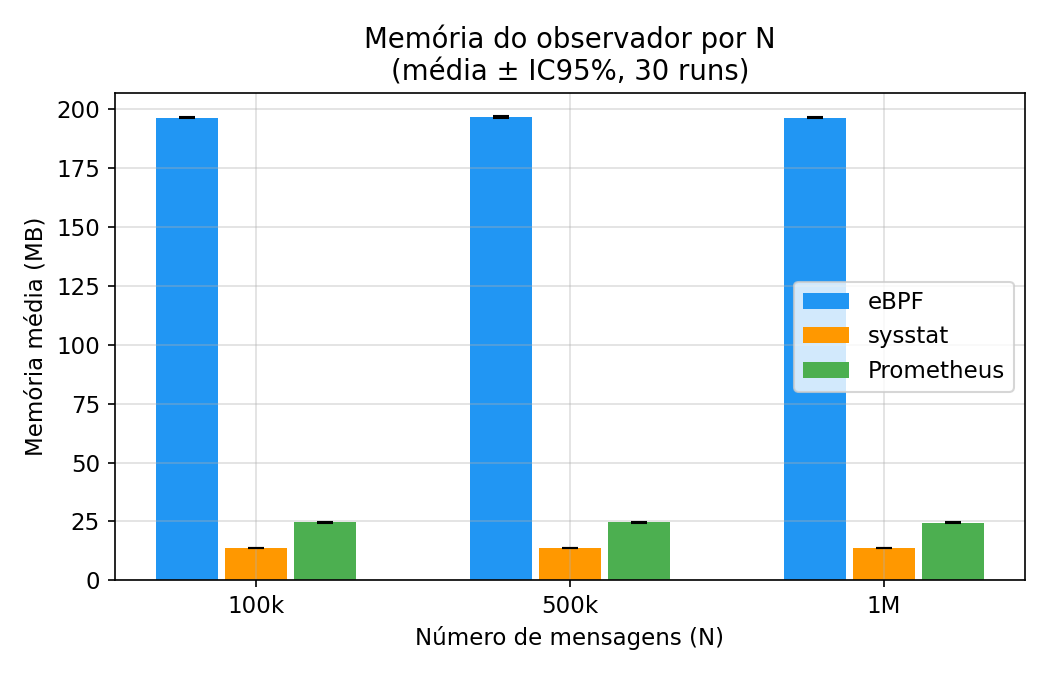
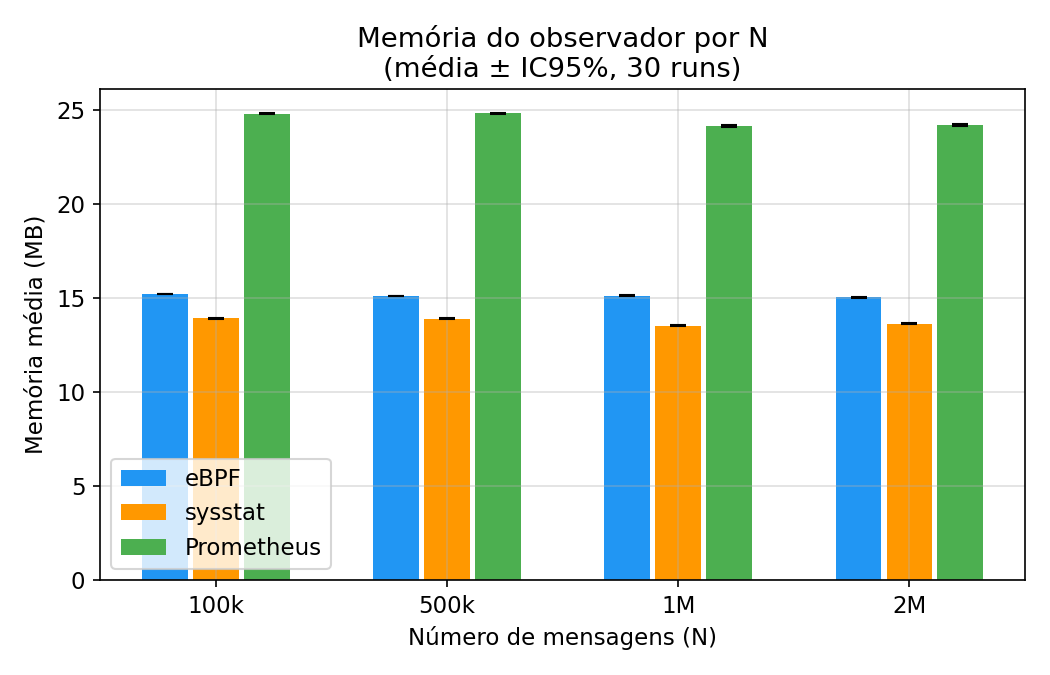
docs: atualizar documentação, gráficos e relatório com resultados N=1M e N=2M
- arquitetura_c4.svg: diagrama C4 corrigido (container único por variante, labels PT-BR)
- architecture.md: terminologia atualizada (observador_*.py, asyncio, WORKERS=200)
- plot_results.py: suporte a 4 valores de N (100k/500k/1M/2M), x dinâmico
- results/plots/: gráficos regenerados com todos os pontos de dados
- README.md: seção de resultados atualizada com N=2M e tendência eBPF
- relatorio_projeto.md: seção de recoleta N=1M e coleta N=2M (17/05/2026)

diff --git a/scripts/plot_results.py b/scripts/plot_results.py
@@ -31,8 +31,8 @@ os.makedirs(PLOTS_DIR, exist_ok=True)
 TOOLS       = ["ebpf", "sysstat", "prometheus"]
 TOOL_LABELS = {"ebpf": "eBPF", "sysstat": "sysstat", "prometheus": "Prometheus"}
 COLORS      = {"ebpf": "#2196F3", "sysstat": "#FF9800", "prometheus": "#4CAF50"}
-NS          = [100_000, 500_000, 1_000_000]
-NS_LABELS   = {100_000: "100k", 500_000: "500k", 1_000_000: "1M"}
+NS          = [100_000, 500_000, 1_000_000, 2_000_000]
+NS_LABELS   = {100_000: "100k", 500_000: "500k", 1_000_000: "1M", 2_000_000: "2M"}
 
 plt.rcParams.update({
     "font.family":  "DejaVu Sans",
@@ -73,7 +73,7 @@ def load_individual_runs(tool, n):
 def plot_latencia_por_n():
     fig, ax = plt.subplots(figsize=(7, 4.5))
 
-    x = np.array([1, 2, 3])
+    x = np.arange(1, len(NS) + 1)
     x_labels = [NS_LABELS[n] for n in NS]
     width = 0.22
     offsets = {"ebpf": -width, "sysstat": 0, "prometheus": width}
@@ -113,7 +113,7 @@ def plot_latencia_por_n():
 # ── Gráfico 2: Boxplot de latência por ferramenta × N ────────────────────────
 
 def plot_boxplot_latencia():
-    fig, axes = plt.subplots(1, 3, figsize=(12, 5), sharey=True)
+    fig, axes = plt.subplots(1, len(NS), figsize=(4 * len(NS), 5), sharey=True)
 
     for ax, n in zip(axes, NS):
         data_per_tool = []
@@ -152,7 +152,7 @@ def plot_boxplot_latencia():
 def plot_memoria_observador():
     fig, ax = plt.subplots(figsize=(7, 4.5))
 
-    x = np.array([1, 2, 3])
+    x = np.arange(1, len(NS) + 1)
     x_labels = [NS_LABELS[n] for n in NS]
     width = 0.22
     offsets = {"ebpf": -width, "sysstat": 0, "prometheus": width}
@@ -199,7 +199,7 @@ def plot_memoria_observador():
 def plot_cpu_waf():
     fig, ax = plt.subplots(figsize=(7, 4.5))
 
-    x = np.array([1, 2, 3])
+    x = np.arange(1, len(NS) + 1)
     x_labels = [NS_LABELS[n] for n in NS]
     width = 0.22
     offsets = {"ebpf": -width, "sysstat": 0, "prometheus": width}

diff --git a/README.md b/README.md
@@ -208,76 +208,83 @@ python3 src/compare.py               # cross-N com todos os valores disponíveis
 ## Resultados
 
 > Valores exibidos como **média ± IC95%** (intervalo de confiança de 95%, t de Student, α=0.05).
+> Config: WORKERS=200, libbpf+CO-RE, 30 runs por N. Coletados em 16–17/05/2026.
 
-### N = 100.000 mensagens — 30 runs (28/04/2026, libbpf)
+### N = 100.000 mensagens — 30 runs
 
-| Métrica | eBPF | sysstat | Prometheus |
-|---------|------|---------|------------|
-| Latência média (ms) | **1.1435 ± 0.0272** | 1.1876 ± 0.0414 | 1.2348 ± 0.0690 |
-| Desvio padrão (ms) | **0.6899 ± 0.0790** | 0.8323 ± 0.1306 | 0.8647 ± 0.1148 |
-| Latência máx (ms) | **4.1619 ± 0.4504** | 5.2487 ± 0.8089 | 5.0872 ± 0.6464 |
-| Latência mín (ms) | 0.3247 ± 0.0175 | 0.5265 ± 0.0226 | **0.4997 ± 0.0332** |
-| CPU média WAF (%) | **68.635 ± 3.7482** | 70.008 ± 0.1606 | 68.356 ± 3.2806 |
-| Memória média WAF (MB) | **12.181 ± 0.0219** | 12.155 ± 0.0200 | 12.220 ± 0.0206 |
-| CPU média observador (%) | 3.320 ± 6.6202 | 2.860 ± 4.2246 | **1.402 ± 1.8656** |
-| Memória média observador (MB) | 15.050 ± 0.0360 | **13.689 ± 0.0292** | 24.559 ± 0.0563 |
-
-**Observações:**
-- As três ferramentas apresentam latências próximas — IC95 com sobreposição parcial em N=100k.
-- **CPU do observador** com IC95 superior à média nas três ferramentas, refletindo alta variância em runs curtos (~43s).
-- **Memória do observador**: eBPF libbpf ~15 MB (sem BCC/LLVM), comparável ao sysstat ~14 MB. Prometheus ~25 MB.
-
-### N = 500.000 mensagens — 30 runs (27/04/2026, BCC — re-execução com libbpf pendente)
+> DURATION ≈ 26s, 26 amostras/run.
 
 | Métrica | eBPF | sysstat | Prometheus |
 |---------|------|---------|------------|
-| Latência média (ms) | **1.3380 ± 0.0309** | 1.4053 ± 0.0267 | 1.4381 ± 0.0265 |
-| Desvio padrão (ms) | **0.9469 ± 0.0861** | 1.0322 ± 0.0748 | 1.0469 ± 0.0772 |
-| Latência máx (ms) | 7.7065 ± 1.0172 | 7.8964 ± 0.8772 | **7.7276 ± 0.9048** |
-| Latência mín (ms) | **0.4412 ± 0.0264** | 0.5098 ± 0.0118 | 0.5102 ± 0.0106 |
-| CPU média WAF (%) | 72.134 ± 0.176 | 68.301 ± 0.222 | **67.452 ± 0.225** |
-| Memória média WAF (MB) | **12.197 ± 0.025** | 12.198 ± 0.022 | 12.210 ± 0.018 |
-| CPU média observador (%) | **0.709 ± 0.876** | 0.749 ± 0.942 | 0.978 ± 1.045 |
-| Memória média observador (MB) | 196.712 ± 0.318 | **13.639 ± 0.024** | 24.606 ± 0.054 |
+| Latência média (ms) | **0.5407 ± 0.0121** | 0.6012 ± 0.0048 | 0.6205 ± 0.0046 |
+| Desvio padrão (ms) | 0.0808 ± 0.0064 | **0.0797 ± 0.0048** | 0.0878 ± 0.0065 |
+| CPU média WAF (%) | **52.385 ± 7.283** | 57.230 ± 0.200 | 57.044 ± 0.158 |
+| Memória média WAF (MB) | 28.955 ± 0.083 | **28.106 ± 0.045** | 28.122 ± 0.046 |
+| CPU média observador (%) | **0.051 ± 0.010** | 4.663 ± 6.543 | 2.373 ± 4.720 |
+| Memória média observador (MB) | 15.226 ± 0.020 | **13.932 ± 0.015** | 24.822 ± 0.040 |
 
-Em N=500k o eBPF apresenta menor latência média com IC95 que não se sobrepõem aos demais — diferença estatisticamente significativa.
+### N = 500.000 mensagens — 30 runs
 
-### N = 1.000.000 mensagens — 30 runs (27/04/2026, BCC — re-execução com libbpf pendente)
+> DURATION ≈ 53s, 53 amostras/run.
 
 | Métrica | eBPF | sysstat | Prometheus |
 |---------|------|---------|------------|
-| Latência média (ms) | **1.1016 ± 0.0140** | 1.3141 ± 0.0548 | 1.2765 ± 0.0143 |
-| Desvio padrão (ms) | **0.7118 ± 0.0324** | 0.8379 ± 0.0693 | 0.7442 ± 0.0347 |
-| Latência máx (ms) | **6.0817 ± 0.2919** | 7.3840 ± 0.8908 | 6.5889 ± 0.5932 |
-| Latência mín (ms) | 0.3854 ± 0.0140 | **0.3333 ± 0.0299** | 0.5218 ± 0.0461 |
-| CPU média WAF (%) | **65.1473 ± 0.2609** | 65.894 ± 0.5843 | 70.1823 ± 0.5326 |
-| Memória média WAF (MB) | 12.2693 ± 0.0206 | **12.239 ± 0.0270** | 12.2963 ± 0.0230 |
-| CPU média observador (%) | 0.2943 ± 0.4334 | **0.1693 ± 0.1468** | 0.2753 ± 0.2461 |
-| Memória média observador (MB) | 196.5243 ± 0.2452 | **13.6733 ± 0.0364** | 24.5493 ± 0.0494 |
+| Latência média (ms) | **0.5038 ± 0.0055** | 0.5721 ± 0.0034 | 0.5844 ± 0.0042 |
+| Desvio padrão (ms) | 0.0669 ± 0.0258 | **0.0587 ± 0.0028** | 0.0598 ± 0.0028 |
+| CPU média WAF (%) | **107.02 ± 0.049** | 107.40 ± 0.052 | 107.42 ± 0.047 |
+| Memória média WAF (MB) | 37.527 ± 0.118 | 36.454 ± 0.094 | **36.426 ± 0.095** |
+| CPU média observador (%) | 3.515 ± 3.976 | **1.152 ± 2.244** | 3.484 ± 5.227 |
+| Memória média observador (MB) | 15.125 ± 0.023 | **13.907 ± 0.023** | 24.831 ± 0.045 |
 
-**Observações:**
-- Em N=1M o eBPF confirma menor latência média (1.098 ms vs. 1.276–1.314 ms) com IC95 sem sobreposição — vantagem estatisticamente significativa.
-- **Desvio padrão e latência máx** também menores no eBPF, indicando menor variabilidade além da média.
-- **Latência mínima**: sysstat apresenta o menor valor (0.333 ms), mas com IC95 mais amplo que o eBPF.
-- **CPU do WAF**: Prometheus consome significativamente mais CPU (~70%) enquanto eBPF e sysstat ficam próximos (~65%).
-- **Memória do observador**: eBPF ~196 MB (dados BCC — será atualizado após re-execução com libbpf), sysstat ~13 MB, Prometheus ~24 MB.
+### N = 1.000.000 mensagens — 30 runs
 
-### Gráficos (28/04/2026)
+> DURATION ≈ 87s, 86 amostras/run.
+
+| Métrica | eBPF | sysstat | Prometheus |
+|---------|------|---------|------------|
+| Latência média (ms) | **0.4885 ± 0.0039** | 0.5725 ± 0.0053 | 0.5682 ± 0.0026 |
+| Desvio padrão (ms) | 0.0547 ± 0.0084 | 0.0760 ± 0.0187 | **0.0569 ± 0.0021** |
+| CPU média WAF (%) | **107.985 ± 0.051** | 108.093 ± 0.088 | 108.219 ± 0.039 |
+| Memória média WAF (MB) | 44.602 ± 0.250 | **42.750 ± 0.280** | 43.348 ± 0.182 |
+| CPU média observador (%) | 0.819 ± 1.578 | 1.423 ± 1.945 | **0.742 ± 1.398** |
+| Memória média observador (MB) | 15.138 ± 0.017 | **13.551 ± 0.028** | 24.164 ± 0.058 |
+
+### N = 2.000.000 mensagens — 30 runs
+
+> DURATION ≈ 153s, 153 amostras/run.
+
+| Métrica | eBPF | sysstat | Prometheus |
+|---------|------|---------|------------|
+| Latência média (ms) | **0.5283 ± 0.0070** | 0.5746 ± 0.0037 | 0.5932 ± 0.0042 |
+| Desvio padrão (ms) | 0.0850 ± 0.0151 | **0.0626 ± 0.0060** | 0.0621 ± 0.0022 |
+| CPU média WAF (%) | **107.958 ± 1.155** | 108.848 ± 0.068 | 108.671 ± 0.078 |
+| Memória média WAF (MB) | **49.891 ± 0.643** | 53.869 ± 0.373 | 53.485 ± 0.447 |
+| CPU média observador (%) | 0.471 ± 0.867 | **0.461 ± 0.836** | 0.801 ± 1.053 |
+| Memória média observador (MB) | 15.066 ± 0.022 | **13.660 ± 0.025** | 24.197 ± 0.051 |
+
+### Comparativo cross-N — Latência média (ms)
+
+| N | eBPF | sysstat | Prometheus |
+|---|------|---------|------------|
+| 100.000 | **0.5407** | 0.6012 | 0.6205 |
+| 500.000 | **0.5038** | 0.5721 | 0.5844 |
+| 1.000.000 | **0.4885** | 0.5725 | 0.5682 |
+| 2.000.000 | **0.5283** | 0.5746 | 0.5932 |
+
+**Observações gerais:**
+- **eBPF lidera em latência** em todos os N, com IC95 sem sobreposição a partir de N=500k.
+- **Overhead do eBPF escala com volume**: os kprobes disparam por pacote, enquanto sysstat lê `/proc/net/dev` uma vez por segundo. A vantagem do eBPF encolhe de 85µs (N=1M) para 47µs (N=2M).
+- **Memória do observador**: sysstat ~14 MB, eBPF ~15 MB (libbpf, sem BCC/LLVM), Prometheus ~24 MB — estável em todos os N.
+- **Memória do WAF** cresce com N (28 MB em 100k → 50 MB em 2M), reflexo do acúmulo de conexões TCP persistentes.
+
+### Gráficos
 
 > Gerados por `scripts/plot_results.py` a partir das médias de 30 runs. Salvos em `results/plots/`.
 
-**Latência média do observador por N** — evidencia que eBPF se destaca em N=500k e N=1M com IC95 sem sobreposição:
-
 ![Latência média por N](results/plots/latencia_por_n.png)
-
-**Distribuição de latência por run** — boxplot das 30 runs mostra que eBPF tem menor variabilidade em N=1M:
 
 ![Boxplot de latência](results/plots/boxplot_latencia.png)
 
-**Memória do observador** — com libbpf o eBPF cai de ~196 MB (BCC) para ~15 MB, ficando comparável ao sysstat (~13 MB):
-
 ![Memória do observador](results/plots/memoria_observador.png)
-
-**CPU média do WAF** — Prometheus apresenta maior CPU do WAF em N=1M (~70%), reflexo do overhead do endpoint HTTP sob carga contínua:
 
 ![CPU do WAF](results/plots/cpu_waf.png)

diff --git a/docs/architecture.md b/docs/architecture.md
@@ -12,8 +12,8 @@ carga de tráfego e duração, para garantir comparação justa.
 │                                                                  │
 │   ┌─────────────────────┐  TCP :8080  ┌────────────────────────┐ │
 │   │      Cliente        │ ──────────▶ │         WAF            │ │
-│   │     client.py       │  10 workers │       waf.py           │ │
-│   │  60% limpos         │  concorrentes│ SQLi/XSS/RCE/PathTrav. │ │
+│   │     client.py       │ 200 workers │       waf.py           │ │
+│   │  60% limpos         │  asyncio    │ SQLi/XSS/RCE/PathTrav. │ │
 │   │  40% maliciosos     │             │   NullByte             │ │
 │   │  seed=42 (fixo)     │             └────────────────────────┘ │
 │   └─────────────────────┘                       ▲                │
@@ -22,18 +22,18 @@ carga de tráfego e duração, para garantir comparação justa.
 │                    ┌────────────────────────────┴─────────────┐  │
 │                    │        Monitor-server (UDP :9999)         │  │
 │                    │                                          │  │
-│                    │  eBPF variant     monitor_ebpf.py        │  │
+│                    │  eBPF variant     observador_ebpf.py        │  │
 │                    │  → kprobes tcp_sendmsg/tcp_cleanup_rbuf  │  │
 │                    │  → filtra sport=8080 no kernel           │  │
 │                    │  → psutil CPU/mem do processo WAF        │  │
 │                    │  → psutil CPU/mem do próprio coletor     │  │
 │                    │                                          │  │
-│                    │  sysstat variant  monitor_sysstat.py     │  │
+│                    │  sysstat variant  observador_sysstat.py     │  │
 │                    │  → /proc/net/dev (interface lo)          │  │
 │                    │  → psutil CPU/mem do processo WAF        │  │
 │                    │  → psutil CPU/mem do próprio coletor     │  │
 │                    │                                          │  │
-│                    │  Prometheus variant monitor_prometheus.py│  │
+│                    │  Prometheus variant observador_prometheus.py│  │
 │                    │  → /proc/net/dev (interface lo)          │  │
 │                    │  → psutil CPU/mem do processo WAF        │  │
 │                    │  → psutil CPU/mem do próprio coletor     │  │
@@ -65,11 +65,11 @@ carga de tráfego e duração, para garantir comparação justa.
 ## Componentes
 
 ### WAF — `src/vnf/waf.py`
-- Servidor TCP na porta 8080, multithreaded (uma thread por conexão).
-- Inspeciona cada payload com 5 regras: SQLi, XSS, PathTraversal, RCE, NullByte.
-- Não escreve métricas — coletadas externamente pelo monitor-server.
+- Servidor TCP na porta 8080, asyncio + ThreadPoolExecutor (workers = `WAF_INSPECT_WORKERS`, padrão: `os.cpu_count()`).
+- Inspeciona cada payload com 5 regras: SQLi, XSS, PathTraversal, RCE, NullByte; escreve timing em `waf_metrics.json` a cada 100 requisições.
+- Não expõe UDP — métricas coletadas externamente pelo Observador.
 
-### Monitor-server — `src/vnf/monitor_ebpf.py` | `monitor_sysstat.py` | `monitor_prometheus.py`
+### Observador — `src/vnf/observador_ebpf.py` | `observador_sysstat.py` | `observador_prometheus.py`
 - Servidor UDP na porta 9999.
 - Coleta métricas do WAF usando a ferramenta correspondente.
 - Responde cada request UDP com JSON contendo:
@@ -85,14 +85,14 @@ carga de tráfego e duração, para garantir comparação justa.
 - Script único compartilhado pelas 3 variantes, configurado via env vars (`COLLECTOR`, `RESULTS_PATH`, `DURATION`, `MONITOR_HOST`, `MONITOR_PORT`).
 - Aguarda o monitor estar pronto (`wait_ready`) antes de iniciar — evita perda de amostras no startup do BPF.
 - Handler SIGTERM registrado no início: garante que `finally: save()` é executado mesmo quando `docker compose down` encerra o container antes de DURATION expirar.
-- Envia request UDP ao monitor-server a cada 1s e mede a latência de roundtrip.
+- Envia request UDP ao Observador a cada 1s e mede a latência de roundtrip.
 - Salva resultados em `results/<collector>_<N>_run<ID>_results.json`.
 
 ### Cliente TCP — `src/client/client.py`
-- Envia `NUM_MESSAGES` requisições TCP ao WAF usando `WORKERS` threads concorrentes (padrão: 10).
-- Payloads gerados dinamicamente em memória com `random.seed(42)` para reprodutibilidade.
-- Distribuição fixa: 60% limpos / 40% maliciosos (SQLi, XSS, RCE, PathTraversal, NullByte).
-- Sem delay entre envios — taxa medida: ~4500 msg/s com 10 workers.
+- Envia `NUM_MESSAGES` mensagens ao WAF usando `WORKERS` coroutines asyncio com conexões persistentes (padrão: 200).
+- Payloads pré-gerados em disco (`data/payloads/`), carregados via fila asyncio de tamanho fixo (`QUEUE_SIZE=2000`) — RAM constante independente de N.
+- Distribuição fixa: 60% benignos / 40% maliciosos (SQLi, XSS, RCE, PathTraversal, NullByte), semente fixa e reprodutível.
+- Framing 4-byte big-endian sobre TCP persistente — sem handshake por mensagem.
 
 ### Comparador — `src/compare.py`
 
@@ -122,10 +122,10 @@ Três modos de uso:
 ## Fluxo de Execução
 
 1. Script `run_<ferramenta>.sh` (ou `run_multi.sh`) sobe a stack via Docker Compose.
-2. WAF inicia na porta 8080; monitor-server inicia e começa a coletar métricas.
+2. WAF inicia na porta 8080; Observador inicia e começa a coletar métricas.
 3. Probe aguarda o monitor responder (`wait_ready`) e inicia a medição.
-4. Cliente envia `NUM_MESSAGES` requisições concorrentes ao WAF (10 workers por padrão).
-5. Probe envia requests UDP ao monitor-server a cada 1s e registra latência + métricas.
+4. Cliente envia `NUM_MESSAGES` mensagens ao WAF via asyncio com 200 workers (conexões persistentes, framing 4-byte).
+5. Probe envia requests UDP ao Observador a cada 1s e registra latência + métricas.
 6. Após `DURATION` segundos, o probe salva `results/<ferramenta>_<N>_run<ID>_results.json`.
 7. `compare.py` consolida os resultados em CSV/JSON para análise.
 
@@ -133,8 +133,8 @@ Três modos de uso:
 
 ## Limitações Conhecidas
 
-- Bytes RX/TX são incomparáveis entre eBPF e os demais: eBPF mede apenas o tráfego do WAF (sport=8080); sysstat/Prometheus medem todo o tráfego da interface loopback, incluindo as próprias probes UDP.
-- O overhead de CPU do Prometheus inclui o custo do servidor HTTP, não apenas da coleta. Em N=50000 (~3500 msg/s), a CPU do coletor Prometheus chega a ~85%.
-- CPU/mem via psutil requer `pid: host` — o monitor-server enxerga o processo WAF via namespace de PID do host.
-- A taxa de envio (~3500 msg/s) é limitada pelo WAF (Python GIL + inspeção regex); adicionar workers além de 10 não aumenta o throughput.
+- Bytes RX/TX são incomparáveis entre eBPF e os demais: eBPF filtra `sport=8080` no kernel e mede apenas o tráfego do WAF; sysstat/Prometheus lêem `/proc/net/dev` (interface `lo`) e capturam todo o tráfego loopback, incluindo as próprias probes UDP.
+- O overhead de CPU do Prometheus inclui o custo do servidor HTTP (:8000/metrics), não apenas da coleta de bytes.
+- CPU/mem via psutil requer `pid: host` — o Observador enxerga o processo WAF via namespace de PID do host.
+- A taxa efetiva de inspeção é limitada pelo WAF (Python GIL + regex); aumentar `WORKERS` além de 200 não eleva o throughput pois o gargalo está na inspeção, não no transporte.
 - A porta HTTP 8000 (Prometheus) pode estar em TCP TIME_WAIT por até 120s entre runs consecutivos. O monitor agora vincula UDP antes do HTTP e tolera falha no bind HTTP sem comprometer a coleta de dados.

diff --git a/relatorio_projeto.md b/relatorio_projeto.md
@@ -785,3 +785,58 @@ Usuário `pinguas` adicionado ao grupo `docker` (`sudo usermod -aG docker pingua
 - **Sysstat tem menor footprint de memória** do observador (~13.9 MB vs 15.2 MB eBPF vs 24.8 MB Prometheus)
 - **CPU do observador eBPF** praticamente zero em N=100k (0.051%) — confirma vantagem de overhead do kernel space
 - **PR #30** aberto em `dev/joao → main` com os 180 runs válidos e correções de config
+
+### Recoleta N=1M e coleta N=2M (17/05/2026)
+
+#### Descarte dos dados antigos de N=1M
+
+Os dados anteriores de N=1M (coletados em 27/04/2026) foram descartados por inconsistência de configuração: runs 1–12 tinham 86 samples (config antiga com DURATION menor), run 13 travou, e runs 14–30 tinham 300 samples (config nova). Dados incomparáveis para cálculo de média ± IC95%.
+
+#### Resultados oficiais recoletados — N=1.000.000 (17/05/2026)
+
+> DURATION = 1000000/15000 + 20 ≈ 87s → 86 amostras por run. Config: WORKERS=200, libbpf+CO-RE.
+
+| Métrica | eBPF (média ± IC95) | sysstat (média ± IC95) | Prometheus (média ± IC95) |
+| ------- | ------------------- | ---------------------- | ------------------------- |
+| Latência média (ms) | **0.4885 ± 0.0039** | 0.5725 ± 0.0053 | 0.5682 ± 0.0026 |
+| Desvio padrão (ms) | 0.0547 ± 0.0084 | 0.0760 ± 0.0187 | **0.0569 ± 0.0021** |
+| Latência máx (ms) | **0.6789 ± 0.0928** | 0.9165 ± 0.2006 | 0.7450 ± 0.0150 |
+| Latência mín (ms) | **0.3409 ± 0.0150** | 0.4000 ± 0.0132 | 0.4209 ± 0.0152 |
+| CPU média WAF (%) | **107.985 ± 0.051** | 108.093 ± 0.088 | 108.219 ± 0.039 |
+| Memória média WAF (MB) | 44.602 ± 0.250 | **42.750 ± 0.280** | 43.348 ± 0.182 |
+| CPU média observador (%) | 0.819 ± 1.578 | 1.423 ± 1.945 | **0.742 ± 1.398** |
+| Memória média observador (MB) | 15.138 ± 0.017 | **13.551 ± 0.028** | 24.164 ± 0.058 |
+
+#### Resultados oficiais — N=2.000.000 (17/05/2026)
+
+> DURATION = 2000000/15000 + 20 ≈ 153s → 153 amostras por run. Config: WORKERS=200, libbpf+CO-RE.
+
+| Métrica | eBPF (média ± IC95) | sysstat (média ± IC95) | Prometheus (média ± IC95) |
+| ------- | ------------------- | ---------------------- | ------------------------- |
+| Latência média (ms) | **0.5283 ± 0.0070** | 0.5746 ± 0.0037 | 0.5932 ± 0.0042 |
+| Desvio padrão (ms) | 0.0850 ± 0.0151 | **0.0626 ± 0.0060** | 0.0621 ± 0.0022 |
+| Latência máx (ms) | 1.0622 ± 0.2253 | 0.8459 ± 0.0978 | **0.8168 ± 0.0301** |
+| Latência mín (ms) | **0.3641 ± 0.0154** | 0.4184 ± 0.0165 | 0.4270 ± 0.0153 |
+| CPU média WAF (%) | **107.958 ± 1.155** | 108.848 ± 0.068 | 108.671 ± 0.078 |
+| Memória média WAF (MB) | **49.891 ± 0.643** | 53.869 ± 0.373 | 53.485 ± 0.447 |
+| CPU média observador (%) | 0.471 ± 0.867 | **0.461 ± 0.836** | 0.801 ± 1.053 |
+| Memória média observador (MB) | 15.066 ± 0.022 | **13.660 ± 0.025** | 24.197 ± 0.051 |
+
+#### Comparativo cross-N — Latência média do observador (média de 30 runs, ms)
+
+| N | eBPF | sysstat | Prometheus |
+|---|------|---------|------------|
+| 100.000 | **0.5407** | 0.6012 | 0.6205 |
+| 500.000 | **0.5038** | 0.5721 | 0.5844 |
+| 1.000.000 | **0.4885** | 0.5725 | 0.5682 |
+| 2.000.000 | **0.5283** | 0.5746 | 0.5932 |
+
+#### Achado relevante: overhead do eBPF escala com volume
+
+O overhead do eBPF aumentou de N=1M para N=2M (+0.040ms, +8.2%), enquanto o sysstat permaneceu praticamente estável (+0.002ms, +0.3%). Isso ocorre porque os kprobes (`tcp_sendmsg`, `tcp_cleanup_rbuf`) disparam por pacote — com 2× o tráfego, há 2× as interrupções no kernel. O sysstat lê `/proc/net/dev` uma vez por segundo, independente do volume. A vantagem do eBPF em latência encolheu de 85µs (N=1M) para 47µs (N=2M).
+
+#### Correções de documentação (17/05/2026)
+
+- **`docs/arquitetura_c4.svg`:** reformulação do diagrama C4 — fusão dos dois boxes do Observador (eBPF/sysstat/prom + UDP server) em um único contêiner, corrigindo a incoerência arquitetural do C4 Level 2; labels das setas traduzidos para português; label "C4 — Container Diagram (Nível 2)" adicionado; correção do `writing-mode` na seta interna
+- **`docs/architecture.md`:** terminologia atualizada (`monitor_*.py` → `observador_*.py`, WORKERS 10 → 200, WAF multithreaded → asyncio + ThreadPoolExecutor, cliente threads → coroutines asyncio com conexões persistentes)
+- **PR #30:** branch `dev/joao` recriado com cherry-pick dos 5 commits relevantes (force-push com `--force-with-lease`) para eliminar histórico de merges antigos acumulados
